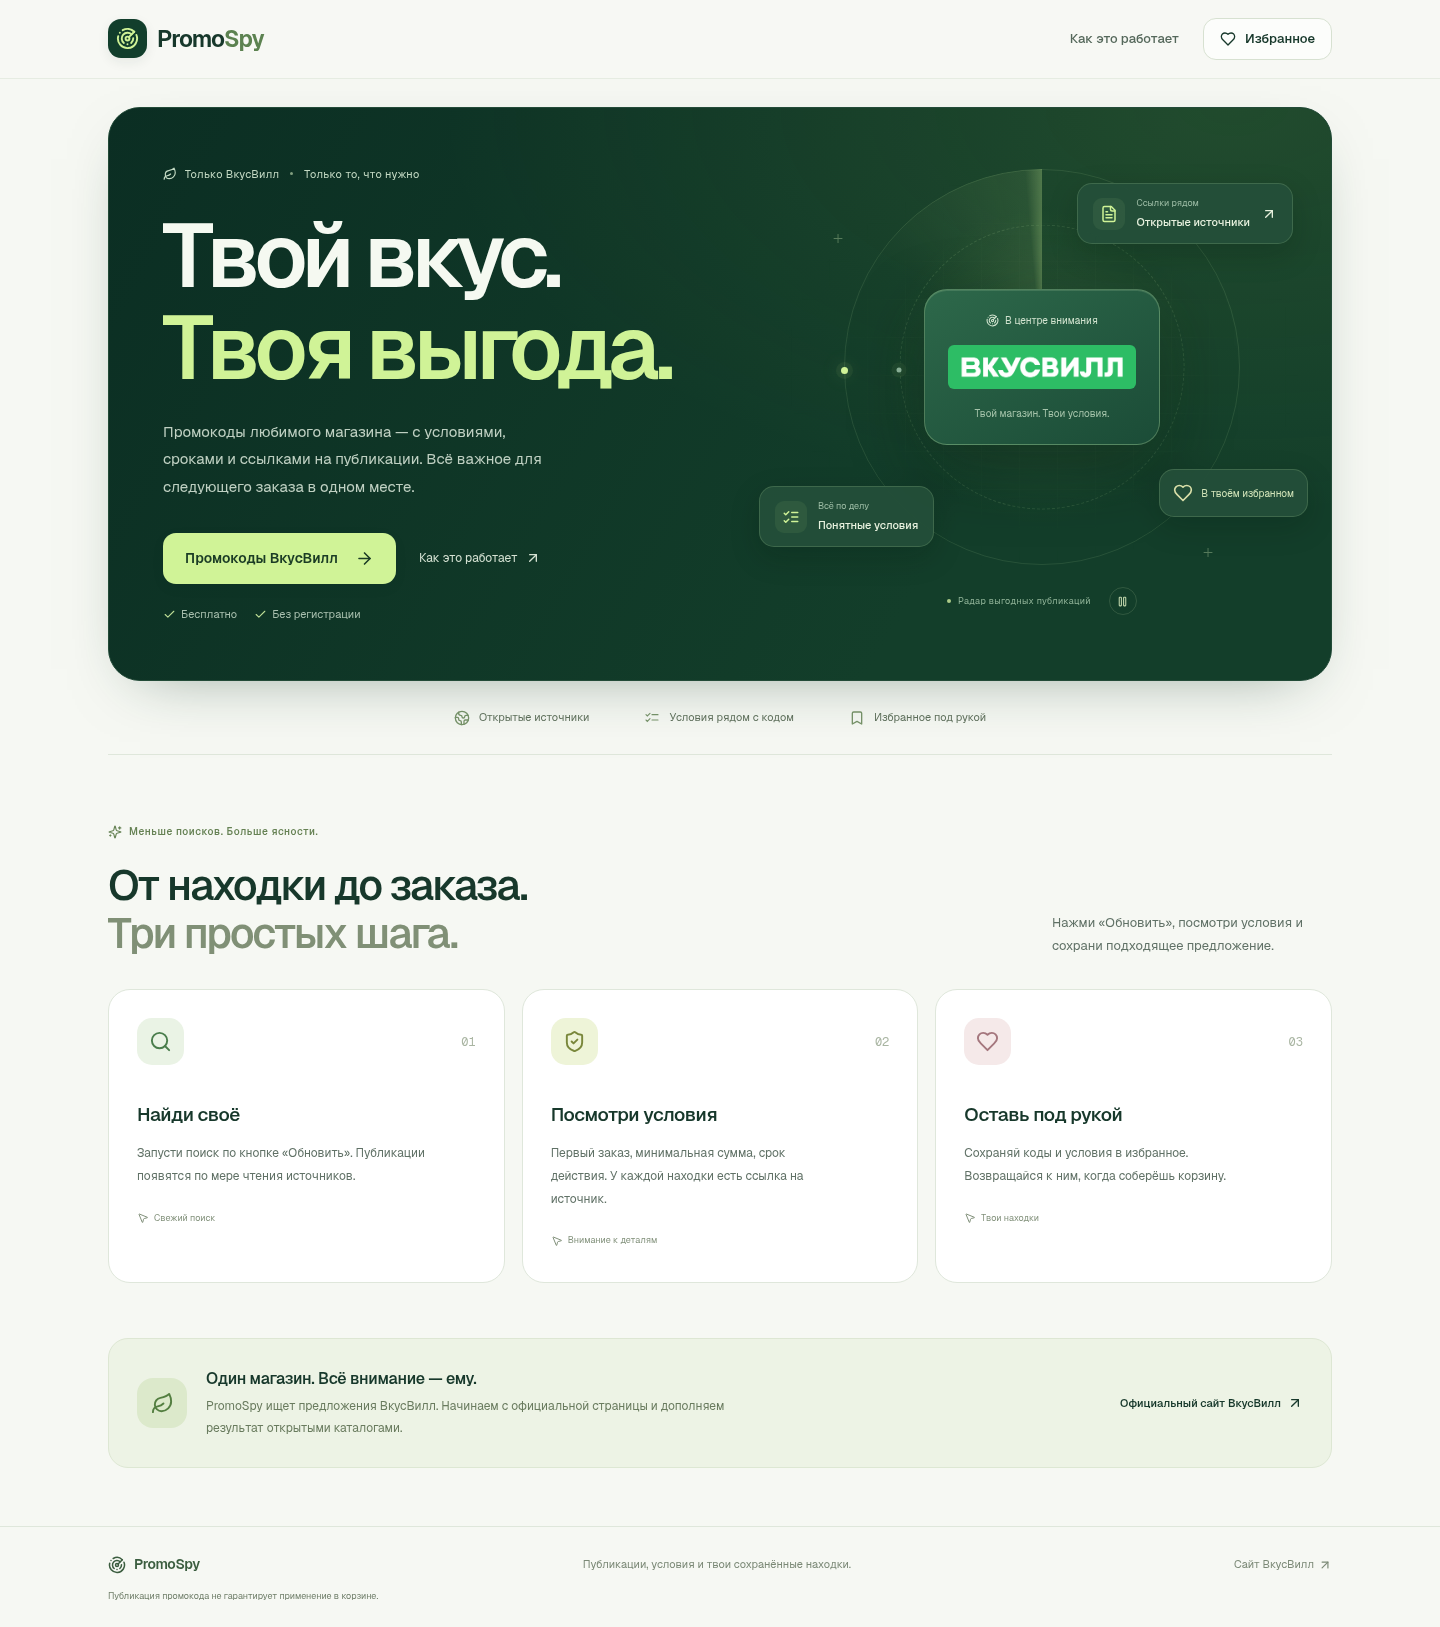
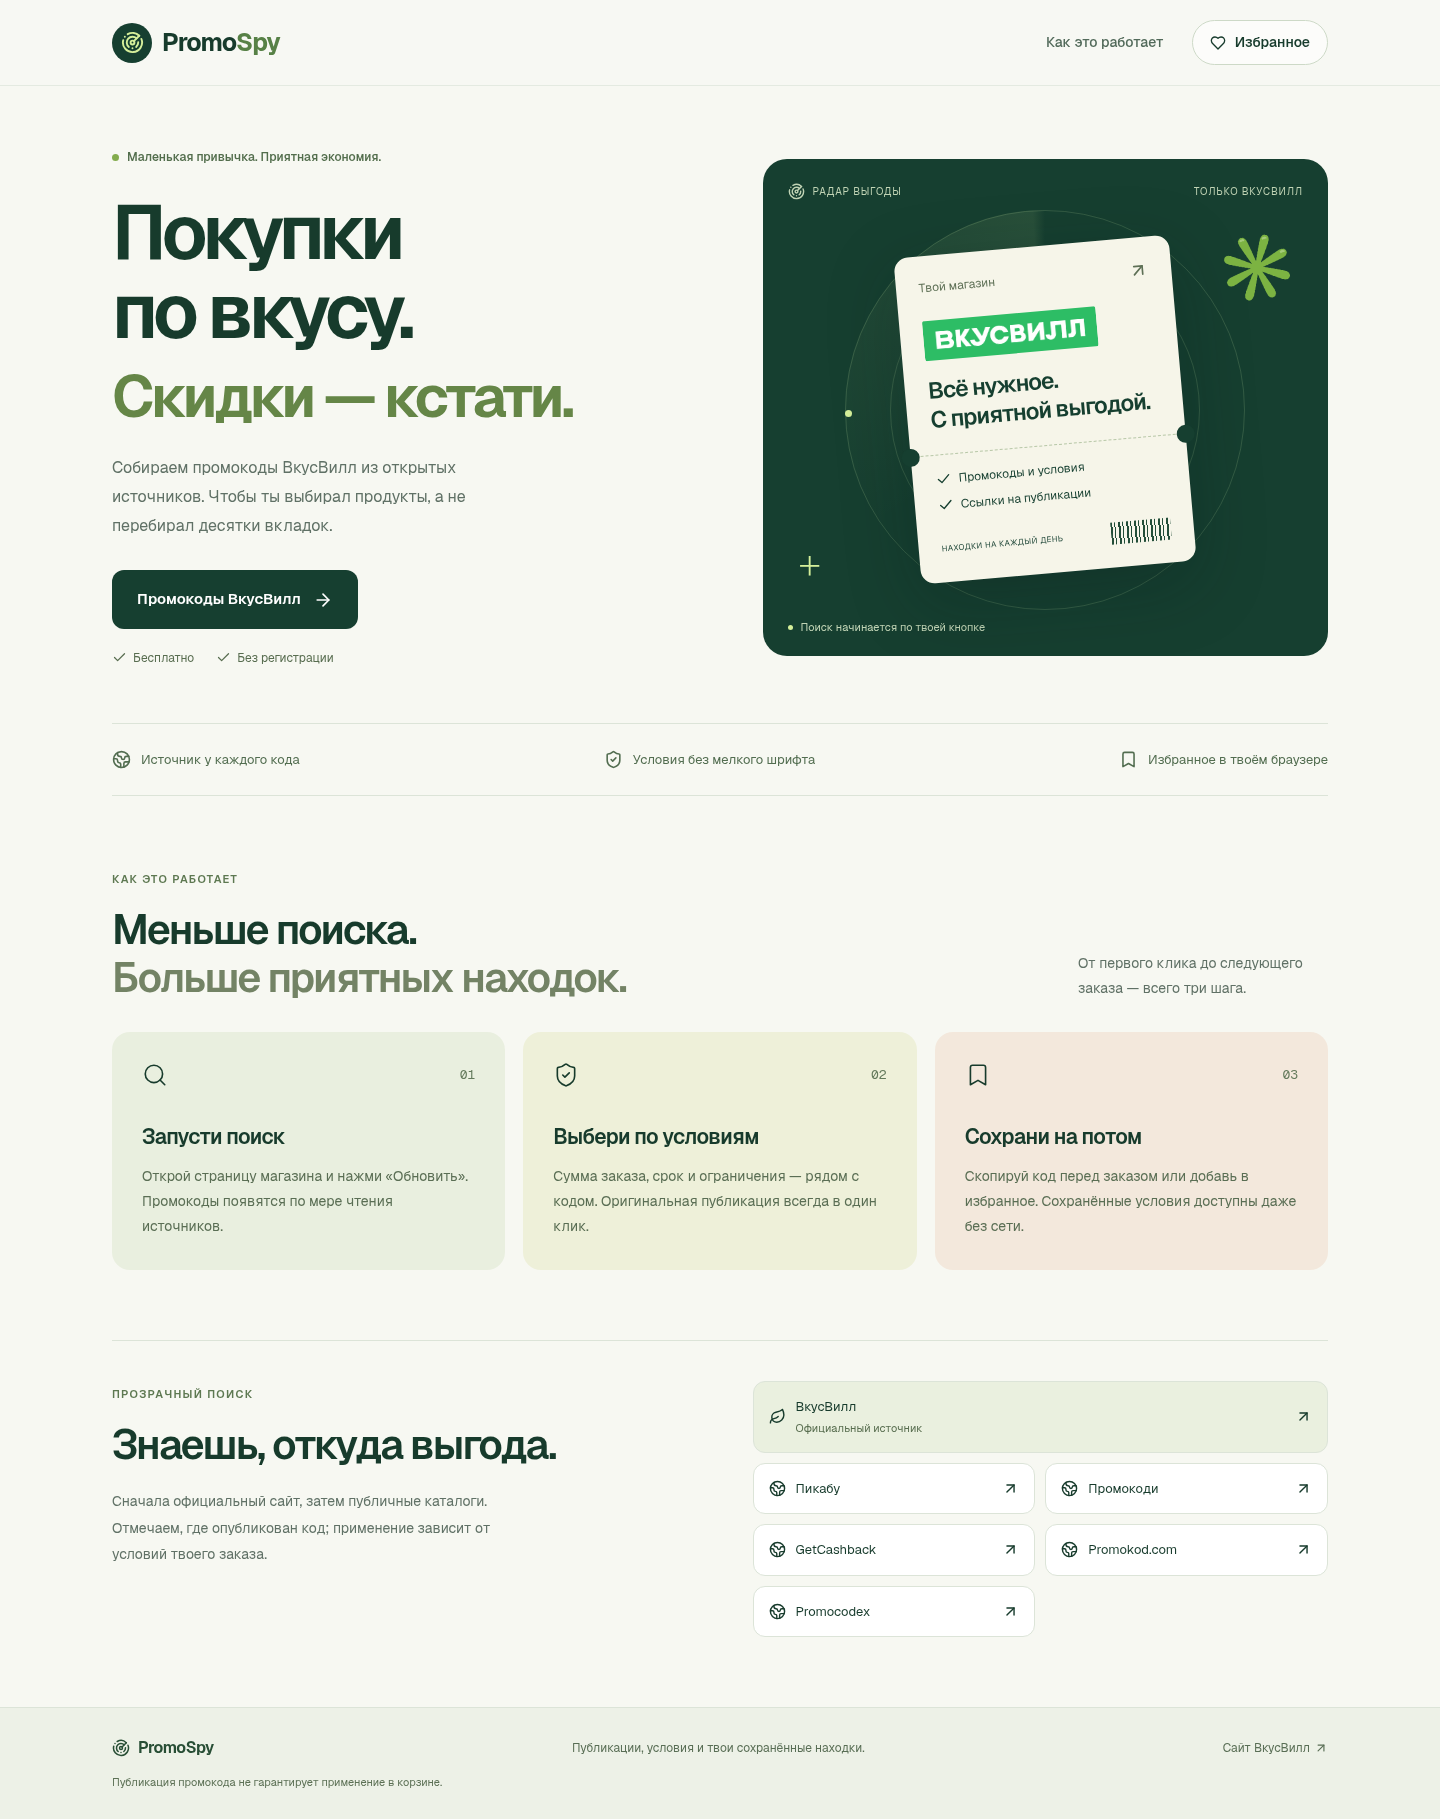
Record verified live search, Docker persistence and next-agent handoff

diff --git a/NEXT_AGENT_TASK.md b/NEXT_AGENT_TASK.md
@@ -1,0 +1,41 @@
+# Задание следующему агенту — PromoSpy 0.16.0
+
+Репозиторий: https://github.com/Startcpc/promospy, рабочая ветка `main`.
+Сначала прочитать `AGENTS.md`, `README.md` и `NEXT_STEPS.md`. В `node_modules/next/dist/docs/` есть документация именно установленной версии Next.js; API error boundary использует `retry`.
+
+## Текущий результат
+
+Приложение работает для одного магазина — ВкусВилл (54). Новый дизайн, фильтры и сортировка; исправления избранного, полных условий, offline и минимальной суммы заказа. Next.js 16.4.5. Устаревшие ветки удалены, PR #1 закрыт; уникальный старый коммит сохранён архивным тегом. `NEXT_STEPS.md` содержит инструкции пользователю и границы проверки.
+
+Проверено: 266 unit-тестов, 25 проверок поиска, 12 тестов лаунчера, 9 сценариев Chromium, lint, typecheck, production build, audit. Docker собран с CA данной среды; не отключать TLS. Кеш переживает пересоздание контейнера. Реальный браузер без mocks: 24 предложения, 9 страниц HTTP 200, clipboard, сохранение, reload/offline. Свидетельства: `docs/live-search-verification.json`, `docs/search-desktop.png`. Это результат 17.11.2026, а не обещание будущей доступности.
+
+## Следующие задачи по приоритету
+
+1. Проверить GitHub Actions последнего коммита и устранить реальные сбои, если появились. Включены Linux Node 22/24, Windows, macOS и Docker. Не выдавать ожидаемый результат за выполненный.
+2. Запустить ZIP на реальных Windows/macOS. Здесь проверены Linux и автоматические тесты лаунчера; нативная проверка других ОС остаётся отдельно.
+3. Если нужен постоянный публичный **живой поиск**, развернуть Node/Docker на сервере с постоянным диском по `docs/server-setup.md`, настроить домен/HTTPS и резервирование. Статический предпросмотр дизайна в Sites не заменяет сервер поиска. Не переносить этот Node/fs crawler в статический хостинг без переработки.
+4. Если нужны готовые Docker-скачивания, после проверок опубликовать образ 0.16.0 с доступом владельца. Старый 0.15.0 не содержит обновления; не переименовывать старый образ в новый.
+5. По запросу пользователя улучшать извлечение из источников, которые дают HTTP 200, но неполные/непонятные карточки. Сначала снять `pnpm audit:sources 54`, проверить HTML и добавить содержательные регрессии. Не угадывать коды, валюты, сроки, скидки или условия.
+
+## Обязательные свойства
+
+- Первый поиск только по «Обновить»; не показывать старый кеш при открытии/перезагрузке страницы. Затем обновлять каждые 5 минут, пока сервер жив.
+- Сохранять условия целиком, регистр кодов, различия кампаний с одинаковым кодом. Не обещать применение в корзине.
+- Ошибка отдельного источника не прерывает остальные. Не обходить CAPTCHA, вход, robots.txt и ограничения доступа; не скрывать ошибки под выдуманными результатами.
+- Не удалять пользовательские избранное, кеш и бэкапы при очистке. Не возвращать SQLite, Prisma и старые магазины.
+- После каждой завершённой задачи — небольшой коммит и push. Пользователь особо просит не держать всю работу только локально.
+
+## Команды
+
+```sh
+pnpm install --frozen-lockfile
+PROMO_TEST_CHROMIUM_EXECUTABLE=/usr/bin/chromium pnpm check
+pnpm test:live 54
+# С уже запущенным приложением, без сетевых mocks:
+PROMO_TEST_CHROMIUM_EXECUTABLE=/usr/bin/chromium pnpm test:live:ui http://127.0.0.1:3000
+pnpm audit --prod
+# Из чистого Git-коммита:
+pnpm package:zip
+```
+
+Для пользовательского запуска: `python3 start.py`; Windows — `START_WINDOWS.cmd`. Интернет для первой установки и поиска обязателен. Результаты дополнительной работы дополнять в `NEXT_STEPS.md`; инструкцию для пользователя не размазывать по новым handoff-файлам.

diff --git a/NEXT_STEPS.md b/NEXT_STEPS.md
@@ -26,7 +26,11 @@
 
 ## Проверка и границы результата
 
-Проверка выполняется на Linux, Node.js 24, с системным Chromium. Итоговые результаты будут внесены перед упаковкой архива.
+На Linux / Node.js 24 прошли: lint, TypeScript, 266 unit-тестов, 25 проверок поиска, 12 тестов Python-лаунчера, production-сборка и 9 браузерных сценариев. `pnpm audit --prod`: известных уязвимостей нет.
+
+Реальный Chromium без подмены запросов проверил поиск, копирование `1раз`, избранное после перезагрузки и без сети. В 21:34 МСК 17 ноября 2026: 24 видимых предложения, 9 прочитанных страниц, все эти страницы вернули HTTP 200, ошибок JavaScript и HTTP в приложении нет. [Машинный отчёт](docs/live-search-verification.json) и [снимок поиска](docs/search-desktop.png).
+
+Docker-образ собран и запущен без root; health, настоящий поиск (24 предложения) и сохранность кеша после пересоздания контейнера проверены. Для HTTPS-прокси этой среды использован существующий `compose.ca.yaml` с доверенным CA; проверка TLS не отключалась.
 
 В реальном поиске 17 ноября 2026 года прочитано 9 страниц, найдено 24 предложения без истёкшего срока. Это наблюдение из этой сети, не обещание постоянного количества или успешного применения кода. Источники могут менять страницы, закрывать доступ и отзывать акции.
 
